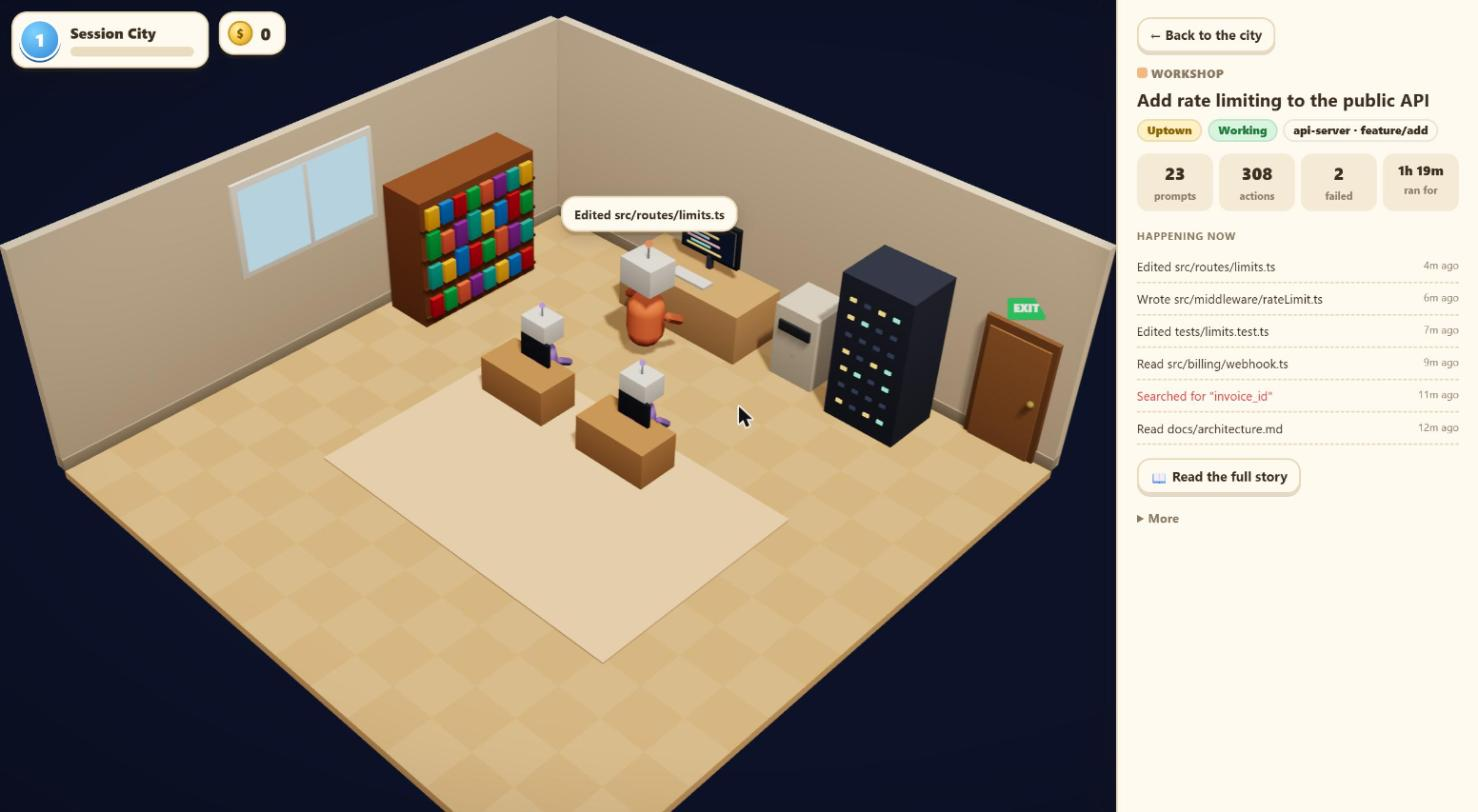
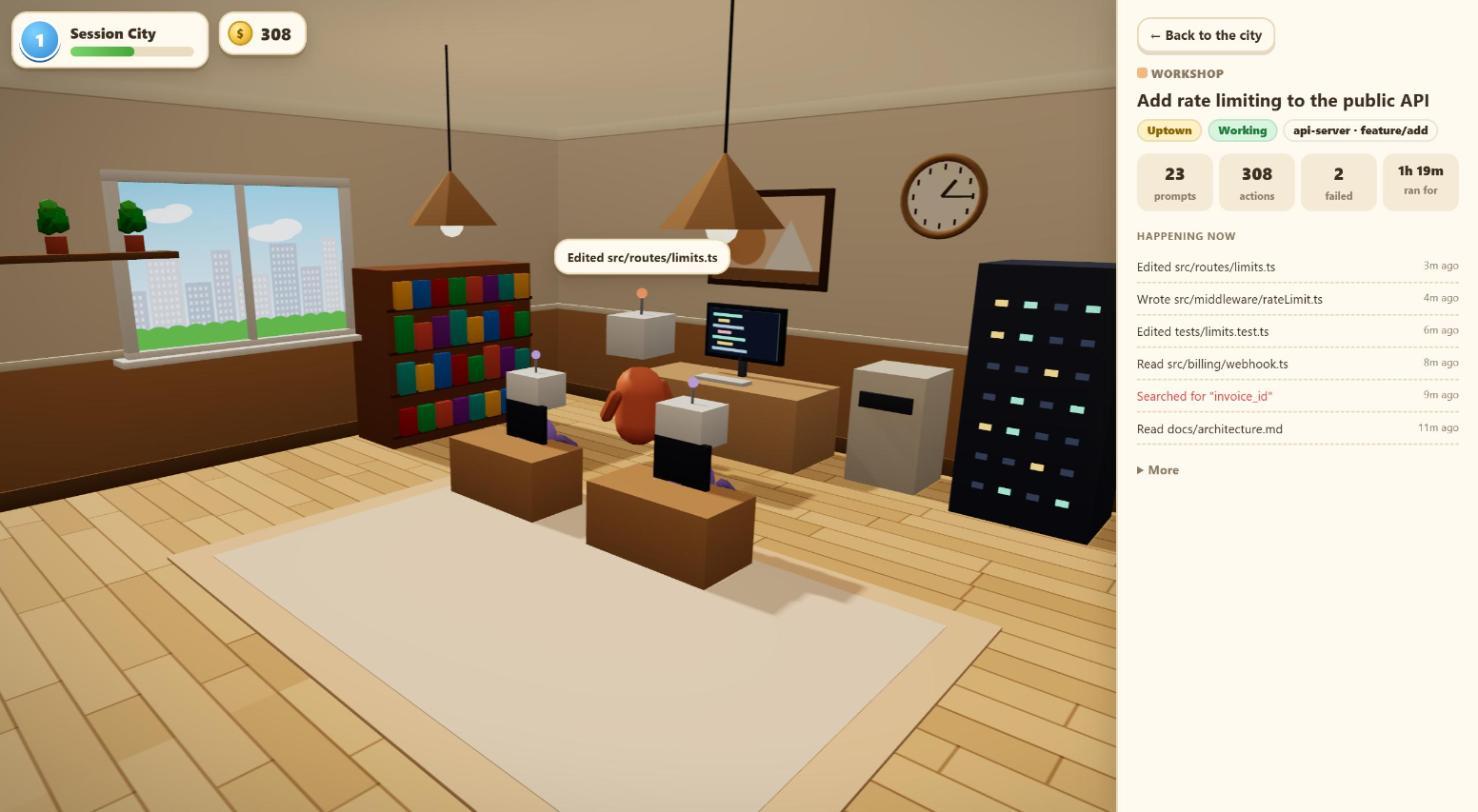
Immersive rooms: stand inside instead of looking at a model
- The camera stands in a front corner at eye height; four walls and a
  ceiling surround it, so there is no black background anywhere. Dragging
  turns your head, with a slow breathing sway.
- Furnished room: wooden floorboards, two-tone walls with a dado rail and
  cornice, pendant lamps, a wall clock showing the real time, framed art in
  the building's colour, a plant shelf and potted plants, a proper door.
- The window shows the city: sky, skyline and treetops by day; stars, a moon
  and lit windows at night. Daylight comes in by day; the lamps take over at
  night.
- Lighter tilt-shift indoors; Room.dispose() frees both window textures.
- README: new room screenshot.

diff --git a/public/room3d.js b/public/room3d.js
@@ -1,11 +1,11 @@
 // Inside a building: a 3D room whose furniture is the kinds of work the session did,
 // with a robot agent walking to whatever it is doing right now.
 import * as THREE from './three.js';
-import { GEO, mat, glowMat, part, makeRobot, makeLabel, KINDS } from './models.js';
+import { GEO, mat, glowMat, part, makeRobot, makeLabel, KINDS, dispose } from './models.js';
 import { mix, shade, damp, clamp } from './util.js';
 
 const ROOM = 7;
-const WALL = 2.6;
+const WALL = 3.0;
 const MAIN = '#e8825e', SUB = '#a58be0';
 
 // x/z footprint in room units; `spot` is where an agent stands to use it.
@@ -20,29 +20,87 @@ const STATIONS = [
 const DESKS = [[2.0, 2.9], [3.4, 2.9], [2.0, 4.2], [3.4, 4.2]];
 const stationFor = (id) => STATIONS.find((s) => s.id === id);
 
+function canvasTexture(w, h, draw) {
+  const c = document.createElement('canvas');
+  c.width = w; c.height = h;
+  draw(c.getContext('2d'));
+  const tex = new THREE.CanvasTexture(c);
+  tex.colorSpace = THREE.SRGBColorSpace;
+  tex.wrapS = tex.wrapT = THREE.RepeatWrapping;
+  tex.anisotropy = 4;
+  return tex;
+}
+
+// What you see out of the window: sky, a skyline and treetops; lit up at night.
+function windowView(night) {
+  return canvasTexture(512, 360, (g) => {
+    const sky = g.createLinearGradient(0, 0, 0, 360);
+    sky.addColorStop(0, night ? '#0b1430' : '#7fc3f0');
+    sky.addColorStop(1, night ? '#2a3768' : '#dff1fb');
+    g.fillStyle = sky;
+    g.fillRect(0, 0, 512, 360);
+    if (night) {
+      g.fillStyle = '#ffffff';
+      for (let i = 0; i < 40; i++) g.fillRect((i * 97) % 512, (i * 53) % 170, 2, 2);
+      g.fillStyle = '#f4f1e0'; g.beginPath(); g.arc(410, 70, 22, 0, Math.PI * 2); g.fill();
+    } else {
+      g.fillStyle = 'rgba(255,255,255,.9)';
+      for (const [x, y, s] of [[90, 70, 1], [330, 110, 1.3]]) {
+        g.beginPath(); g.ellipse(x, y, 46 * s, 16 * s, 0, 0, Math.PI * 2); g.ellipse(x + 30 * s, y - 10 * s, 30 * s, 16 * s, 0, 0, Math.PI * 2); g.fill();
+      }
+    }
+    let x = 0, i = 0;
+    while (x < 512) {
+      const w = 40 + ((i * 37) % 50), h = 90 + ((i * 71) % 130);
+      g.fillStyle = night ? '#1a2244' : ['#a9b6c9', '#c3cbd8', '#9fb0c4'][i % 3];
+      g.fillRect(x, 360 - h - 40, w - 6, h);
+      for (let wy = 360 - h - 30; wy < 320; wy += 16) for (let wx = x + 6; wx < x + w - 14; wx += 12) {
+        if (night && ((wx * 7 + wy * 3 + i) % 5)) continue;
+        g.fillStyle = night ? '#ffd27a' : 'rgba(255,255,255,.55)';
+        g.fillRect(wx, wy, 6, 8);
+      }
+      x += w; i++;
+    }
+    g.fillStyle = night ? '#16301f' : '#5aa54f';
+    for (let t = 0; t < 14; t++) { g.beginPath(); g.arc(t * 40 + 10, 345, 34, 0, Math.PI * 2); g.fill(); }
+  });
+}
+
+function plant(scene, x, y, z, s) {
+  const shadow = y === 0; // plants up on the shelf would smudge the floor with soft shadows
+  const pot = part(GEO.cyl, mat('#c46a4a'), [0.38 * s, 0.34 * s, 0.38 * s], [x, y, z], shadow);
+  scene.add(pot);
+  const leaves = [[0, 0.7, 0, 0.55], [-0.12, 0.55, 0.08, 0.4], [0.12, 0.6, -0.06, 0.42], [0.04, 0.88, 0.05, 0.36]];
+  for (const [dx, dy, dz, r] of leaves) {
+    scene.add(part(GEO.blob, mat(dy > 0.8 ? '#6fcb5c' : '#4ea545'), [r * s, r * s * 1.1, r * s], [x + dx * s, y + dy * s, z + dz * s], shadow));
+  }
+}
+
 export class Room {
   constructor(session) {
     this.id = session.id;
     const scene = this.scene = new THREE.Scene();
-    scene.background = new THREE.Color('#1f2438');
-    this.camera = new THREE.PerspectiveCamera(30, 1, 0.1, 200);
+    scene.background = new THREE.Color('#e9dcc6'); // never seen: the room encloses the camera
+    // you stand in a front corner of the room, at eye height, looking across it
+    this.camera = new THREE.PerspectiveCamera(52, 1, 0.05, 60);
     this.yaw = Math.PI / 4;
     this.yawGoal = this.yaw;
-    scene.add(new THREE.HemisphereLight('#fff6e8', '#6a5040', 1.3));
-    const key = new THREE.DirectionalLight('#fff0d8', 2.2);
-    key.position.set(9, 12, 7);
-    key.castShadow = true;
-    key.shadow.mapSize.set(1024, 1024);
-    const sc = key.shadow.camera;
-    sc.left = sc.bottom = -7; sc.right = sc.top = 7;
-    key.target.position.set(3.5, 0, 3.5);
-    scene.add(key, key.target);
-    this.lamp = new THREE.PointLight('#ffcf8a', 0, 9);
-    this.lamp.position.set(3.5, 2.3, 3.5);
-    scene.add(this.lamp);
+
+    // daylight through the window, warm bounce off the floor, and the ceiling lamps
+    this.fill = new THREE.HemisphereLight('#fff6e8', '#8a6a4c', 1.2);
+    this.sunlight = new THREE.DirectionalLight('#fff0d8', 1.6);
+    this.sunlight.position.set(-6, 9, 4);
+    this.sunlight.castShadow = true;
+    this.sunlight.shadow.mapSize.set(1024, 1024);
+    this.sunlight.shadow.normalBias = 0.02;
+    const sc = this.sunlight.shadow.camera;
+    sc.left = sc.bottom = -6; sc.right = sc.top = 6;
+    this.sunlight.target.position.set(3.5, 0, 3.5);
+    scene.add(this.fill, this.sunlight, this.sunlight.target);
 
     this.hits = [];
     this.anim = {};
+    this.lamps = [];
     this.buildRoom(session);
     this.buildStations(session);
 
@@ -60,50 +118,130 @@ export class Room {
       this.subs.push(r);
     }
     this.state = { lastGroup: null, wanderAt: 0, goalId: 'build', mode: 'idle' };
-    this.zzz = [];
   }
 
   buildRoom(s) {
     const kind = KINDS[s.kind].color;
-    const wall = mix('#f4efe6', kind, 0.2);
     const scene = this.scene;
-    // floor boards
-    const c = document.createElement('canvas');
-    c.width = c.height = 256;
-    const g = c.getContext('2d');
-    for (let y = 0; y < 8; y++) for (let x = 0; x < 8; x++) {
-      g.fillStyle = (x + y) % 2 ? '#d7b48c' : '#cfab82';
-      g.fillRect(x * 32, y * 32, 32, 32);
+    const upper = mix('#f6f0e4', kind, 0.16), lower = mix(shade(kind, -0.15), '#8a6a4c', 0.35);
+    const add = (m) => { m.castShadow = false; scene.add(m); return m; };
+
+    // floorboards
+    const floorTex = canvasTexture(512, 512, (g) => {
+      for (let row = 0; row < 16; row++) {
+        let x = -((row * 97) % 180);
+        while (x < 512) {
+          const w = 140 + ((row * 31 + Math.abs(x)) % 90);
+          const tone = 168 + ((row * 13 + Math.abs(x) * 7) % 26);
+          g.fillStyle = `rgb(${tone + 40},${tone - 2},${tone - 52})`;
+          g.fillRect(x, row * 32, w, 32);
+          g.fillStyle = 'rgba(60,35,15,.35)';
+          g.fillRect(x, row * 32, 2, 32);
+          x += w;
+        }
+        g.fillStyle = 'rgba(60,35,15,.4)';
+        g.fillRect(0, row * 32, 512, 2);
+      }
+    });
+    floorTex.repeat.set(2, 2);
+    add(part(GEO.box, new THREE.MeshStandardMaterial({ map: floorTex, roughness: 0.7 }), [ROOM, 0.1, ROOM], [ROOM / 2, -0.1, ROOM / 2]));
+    add(part(GEO.box, mat(mix(kind, '#ffffff', 0.3), { flatShading: false }), [3.9, 0.02, 2.7], [3.65, 0, 3.75]));
+    add(part(GEO.box, mat(mix(kind, '#ffffff', 0.6), { flatShading: false }), [3.5, 0.025, 2.3], [3.65, 0, 3.75]));
+
+    // four walls (two-tone, with a dado rail and skirting) and a ceiling, so every
+    // direction you look is room
+    const walls = [
+      { x: -0.07, z: ROOM / 2, alongZ: true },
+      { x: ROOM + 0.07, z: ROOM / 2, alongZ: true },
+      { x: ROOM / 2, z: -0.07, alongZ: false },
+      { x: ROOM / 2, z: ROOM + 0.07, alongZ: false },
+    ];
+    const span = (t, len = ROOM + 0.28) => (w) => (w.alongZ ? [t, 0, len] : [len, 0, t]);
+    for (const w of walls) {
+      const size = (t, h, len) => { const [a, , b] = span(t, len)(w); return [a, h, b]; };
+      add(part(GEO.box, mat(upper, { flatShading: false }), size(0.14, WALL), [w.x, 0, w.z]));
+      add(part(GEO.box, mat(lower, { flatShading: false }), size(0.17, 1.0, ROOM), [w.x, 0, w.z]));
+      add(part(GEO.box, mat('#f4ead8'), size(0.21, 0.06, ROOM), [w.x, 1.0, w.z]));
+      add(part(GEO.box, mat(shade(lower, -0.3)), size(0.21, 0.14, ROOM), [w.x, 0, w.z]));
+      add(part(GEO.box, mat('#efe6d4', { emissive: '#8a7d68', emissiveIntensity: 0.45 }), size(0.3, 0.12, ROOM), [w.x, WALL - 0.12, w.z]));
     }
-    const tex = new THREE.CanvasTexture(c);
-    tex.colorSpace = THREE.SRGBColorSpace;
-    tex.wrapS = tex.wrapT = THREE.RepeatWrapping;
-    tex.repeat.set(ROOM / 8 * 2, ROOM / 8 * 2);
-    tex.magFilter = THREE.NearestFilter;
-    const floor = part(GEO.box, new THREE.MeshStandardMaterial({ map: tex, roughness: 0.8 }), [ROOM, 0.1, ROOM], [ROOM / 2, -0.1, ROOM / 2], false);
-    scene.add(floor);
-    scene.add(part(GEO.box, mat(mix(kind, '#ffffff', 0.35), { flatShading: false }), [3.9, 0.02, 2.6], [3.65, 0, 3.75], false));
+    // the ceiling only sees bounce light from the floor, so give it a soft glow of its own
+    add(part(GEO.box, mat('#f7f2e8', { flatShading: false, emissive: '#b9a88f', emissiveIntensity: 0.55 }), [ROOM + 0.3, 0.12, ROOM + 0.3], [ROOM / 2, WALL, ROOM / 2]));
 
-    // two walls with skirting, a window and the exit door
-    scene.add(part(GEO.box, mat(shade(wall, -0.06)), [0.12, WALL, ROOM], [-0.06, 0, ROOM / 2]));
-    scene.add(part(GEO.box, mat(wall), [ROOM, WALL, 0.12], [ROOM / 2, 0, -0.06]));
-    scene.add(part(GEO.box, mat(shade(wall, -0.3)), [0.14, 0.14, ROOM], [-0.05, 0, ROOM / 2]));
-    scene.add(part(GEO.box, mat(shade(wall, -0.3)), [ROOM, 0.14, 0.14], [ROOM / 2, 0, -0.05]));
-    scene.add(part(GEO.box, mat('#ffffff'), [0.06, 1.1, 1.8], [0.01, 1.2, 3.75], false));
-    this.windowGlass = part(GEO.box, new THREE.MeshBasicMaterial({ color: '#9fd3f0', toneMapped: false }), [0.07, 0.95, 1.65], [0.02, 1.27, 3.75], false);
-    scene.add(this.windowGlass);
-    scene.add(part(GEO.box, mat('#ffffff'), [0.08, 0.95, 0.05], [0.02, 1.27, 3.75], false));
+    // a window onto the city (sky and skyline change with day and night)
+    this.views = { day: windowView(false), night: windowView(true) };
+    const z0 = 2.85, len = 1.8, y0 = 1.05, h = 1.25;
+    this.pane = new THREE.Mesh(new THREE.PlaneGeometry(len, h), new THREE.MeshBasicMaterial({ map: this.views.day, toneMapped: false }));
+    this.pane.rotation.y = Math.PI / 2;
+    this.pane.position.set(0.09, y0 + h / 2, z0 + len / 2);
+    add(this.pane);
+    const bar = (sx, sy, sz, px, py, pz) => add(part(GEO.box, mat('#ffffff'), [sx, sy, sz], [px, py, pz]));
+    bar(0.1, 0.08, len + 0.16, 0.11, y0 - 0.08, z0 + len / 2);
+    bar(0.1, 0.08, len + 0.16, 0.11, y0 + h, z0 + len / 2);
+    bar(0.1, h, 0.08, 0.11, y0, z0 - 0.04);
+    bar(0.1, h, 0.08, 0.11, y0, z0 + len + 0.04);
+    bar(0.1, h, 0.05, 0.11, y0, z0 + len / 2);
+    bar(0.24, 0.05, len + 0.3, 0.14, y0 - 0.1, z0 + len / 2);
 
+    // the exit door
     const door = new THREE.Group();
-    door.add(part(GEO.box, mat('#8a6446'), [0.8, 1.45, 0.08], [6.4, 0, 0.02]));
-    door.add(part(GEO.box, mat('#a77a55'), [0.68, 1.35, 0.1], [6.4, 0, 0.03]));
-    door.add(part(GEO.sphere, mat('#f2d48a', { metalness: 0.6, roughness: 0.3 }), [0.08, 0.08, 0.08], [6.66, 0.7, 0.1]));
-    const exit = makeLabel('EXIT', 0.22, { bg: '#2fae5a', fg: '#ffffff', font: 800, size: 40, radius: 8 });
-    exit.position.set(6.4, 1.72, 0.1);
+    door.add(part(GEO.box, mat('#6f4f36'), [1.0, 2.05, 0.1], [6.3, 0, 0.03]));
+    door.add(part(GEO.box, mat('#a77a55'), [0.84, 1.95, 0.12], [6.3, 0, 0.04]));
+    for (const y of [0.35, 1.15]) door.add(part(GEO.box, mat('#956b49'), [0.6, 0.6, 0.14], [6.3, y, 0.04]));
+    door.add(part(GEO.sphere, mat('#f2d48a', { metalness: 0.6, roughness: 0.3 }), [0.09, 0.09, 0.09], [6.62, 0.95, 0.13]));
+    const exit = makeLabel('EXIT', 0.26, { bg: '#2fae5a', fg: '#ffffff', font: 800, size: 40, radius: 8 });
+    exit.position.set(6.3, 2.3, 0.12);
     door.add(exit);
     door.traverse((o) => { o.userData.door = true; });
     scene.add(door);
     this.hits.push(door);
+
+    // a wall clock showing the real time, above the coffee machine
+    const clock = new THREE.Group();
+    clock.position.set(4.25, 2.2, 0.09);
+    clock.add(new THREE.Mesh(new THREE.CircleGeometry(0.28, 32), new THREE.MeshStandardMaterial({ map: canvasTexture(128, 128, (g) => {
+      g.fillStyle = '#fffaf0'; g.beginPath(); g.arc(64, 64, 62, 0, Math.PI * 2); g.fill();
+      g.fillStyle = '#3b2f22';
+      for (let i = 0; i < 12; i++) { const a = i * Math.PI / 6; g.fillRect(64 + Math.sin(a) * 50 - 2, 64 - Math.cos(a) * 50 - 5, 4, 10); }
+    }) })));
+    clock.add(new THREE.Mesh(new THREE.TorusGeometry(0.29, 0.03, 8, 32), new THREE.MeshStandardMaterial({ color: shade(kind, -0.35) })));
+    const hand = (l, w) => {
+      const pivot = new THREE.Group();
+      pivot.add(new THREE.Mesh(new THREE.BoxGeometry(w, l, 0.01).translate(0, l / 2, 0.015), new THREE.MeshBasicMaterial({ color: '#2b2118' })));
+      clock.add(pivot);
+      return pivot;
+    };
+    this.anim.clock = { hour: hand(0.15, 0.025), minute: hand(0.22, 0.016) };
+    scene.add(clock);
+
+    // framed art above the workbench, in the building's colour
+    const art = new THREE.Mesh(new THREE.PlaneGeometry(1.1, 0.75), new THREE.MeshStandardMaterial({ map: canvasTexture(220, 150, (g) => {
+      g.fillStyle = mix(kind, '#ffffff', 0.55); g.fillRect(0, 0, 220, 150);
+      g.fillStyle = shade(kind, -0.1); g.beginPath(); g.arc(70, 80, 42, 0, Math.PI * 2); g.fill();
+      g.fillStyle = '#ffffff'; g.beginPath(); g.moveTo(110, 130); g.lineTo(160, 40); g.lineTo(210, 130); g.fill();
+      g.fillStyle = shade(kind, -0.35); g.fillRect(0, 128, 220, 22);
+    }) }));
+    art.position.set(2.75, 1.85, 0.1);
+    add(art);
+    add(part(GEO.box, mat('#5a4030'), [1.22, 0.87, 0.04], [2.75, 1.85 - 0.435, 0.06]));
+
+    // a shelf of plants over the switchboard, and potted plants in the corners
+    add(part(GEO.box, mat('#8a6446'), [0.3, 0.05, 1.5], [0.2, 1.75, 5.1]));
+    for (const z of [4.6, 5.1, 5.6]) plant(scene, 0.2, 1.8, z, 0.35);
+    plant(scene, 6.5, 0, 2.6, 1);
+    plant(scene, 0.55, 0, 6.45, 1.2);
+    plant(scene, 6.45, 0, 6.45, 0.9);
+
+    // pendant lamps
+    for (const [x, z] of [[2.7, 3.6], [4.6, 3.6]]) {
+      add(part(GEO.cyl, mat('#3b3f4a'), [0.015, 0.7, 0.015], [x, WALL - 0.7, z]));
+      add(part(GEO.cone8, mat(shade(kind, -0.25), { side: THREE.DoubleSide }), [0.55, 0.32, 0.55], [x, WALL - 1.0, z]));
+      const bulb = add(part(GEO.sphere, new THREE.MeshBasicMaterial({ color: '#fff1c4', toneMapped: false }), [0.14, 0.14, 0.14], [x, WALL - 1.0, z]));
+      const light = new THREE.PointLight('#ffcf8a', 0.5, 7, 1.6);
+      light.position.set(x, WALL - 1.15, z);
+      scene.add(light);
+      this.lamps.push({ light, bulb });
+    }
   }
 
   buildStations(s) {
@@ -183,13 +321,21 @@ export class Room {
     }
   }
 
-  resize(w, h) {
-    this.camera.aspect = w / h;
-    this.camera.updateProjectionMatrix();
-    this.dist = clamp(22 / Math.min(1.4, w / h), 15, 30);
+  dispose() {
+    this.views.day.dispose();
+    this.views.night.dispose();
+    dispose(this.scene);
   }
 
-  rotate(dx) { this.yawGoal = clamp(this.yawGoal - dx * 0.006, Math.PI / 4 - 0.6, Math.PI / 4 + 0.6); }
+  resize(w, h) {
+    this.camera.aspect = w / h;
+    // narrow screens need a wider lens to keep the room in view
+    this.camera.fov = clamp(70 - (w / h) * 11, 48, 62);
+    this.camera.updateProjectionMatrix();
+  }
+
+  // Dragging turns your head; you stay standing in the corner.
+  rotate(dx) { this.yawGoal = clamp(this.yawGoal - dx * 0.004, Math.PI / 4 - 0.55, Math.PI / 4 + 0.55); }
 
   pick(raycaster) {
     const hit = raycaster.intersectObjects(this.hits, true)[0];
@@ -198,13 +344,27 @@ export class Room {
   }
 
   update(dt, t, s, night) {
-    // camera
-    this.yaw += (this.yawGoal - this.yaw) * damp(8, dt);
-    const d = this.dist ?? 19;
-    this.camera.position.set(3.5 + Math.sin(this.yaw) * d * 0.72, d * 0.62, 3.5 + Math.cos(this.yaw) * d * 0.72);
-    this.camera.lookAt(3.3, 0.6, 3.3);
-    this.windowGlass.material.color.set(night > 0.5 ? '#1d2a55' : mix('#9fd3f0', '#1d2a55', night));
-    this.lamp.intensity = night * 6;
+    // camera: standing in the front corner at eye height, with a slow breathing sway
+    this.yaw += (this.yawGoal - this.yaw) * damp(6, dt);
+    const sway = Math.sin(t / 2600) * 0.012;
+    this.camera.position.set(6.55, 2.05 + sway, 6.55);
+    const look = 6.2;
+    this.camera.lookAt(6.55 - Math.sin(this.yaw) * look, 0.55, 6.55 - Math.cos(this.yaw) * look);
+
+    // light: daylight through the window by day, the pendant lamps at night
+    this.sunlight.intensity = 1.6 * (1 - night) + 0.15;
+    this.fill.intensity = 1.2 - night * 0.55;
+    this.fill.color.set(mix('#fff6e8', '#c9b7a0', night));
+    for (const l of this.lamps) {
+      l.light.intensity = 0.4 + night * 5;
+      l.bulb.material.color.set(night > 0.3 ? '#ffe2a0' : '#fff6dc');
+    }
+    const view = night > 0.5 ? this.views.night : this.views.day;
+    if (this.pane.material.map !== view) { this.pane.material.map = view; this.pane.material.needsUpdate = true; }
+    const now = new Date();
+    const mins = now.getHours() * 60 + now.getMinutes() + now.getSeconds() / 60;
+    this.anim.clock.minute.rotation.z = -(mins % 60) / 60 * Math.PI * 2;
+    this.anim.clock.hour.rotation.z = -(mins % 720) / 720 * Math.PI * 2;
 
     // where the agent wants to be
     const st = this.state;

diff --git a/public/app.js b/public/app.js
@@ -2,7 +2,7 @@ import * as THREE from './three.js';
 import { City } from './city3d.js';
 import { Room } from './room3d.js';
 import { buildLayout, colonyOf, COLONIES } from './layout.js';
-import { KINDS, STATUS, CAR_MODELS, carById, makeCar, dispose } from './models.js';
+import { KINDS, STATUS, CAR_MODELS, carById, makeCar } from './models.js';
 import { createGame, pending, collect, levelOf, quests, progress, claim, visited, actionsOf } from './game.js';
 import { sfx } from './sfx.js';
 import { renderPostcard, cityStats, openShare } from './share.js';
@@ -325,7 +325,7 @@ function leave() {
   transition(() => {
     state.scene = 'city';
     city.active = true;
-    dispose(state.room.scene);
+    state.room.dispose();
     state.room = null;
     hud.hidden = true;
     bubble.hidden = true;
@@ -456,7 +456,7 @@ function frame(t) {
     const s = state.roomSession;
     state.room.update(dt, t, s, n);
     const u = city.post.uniforms;
-    u.uBlur.value = 0.45; u.uBand.value = 0.3; u.uFocus.value = 0.5;
+    u.uBlur.value = 0.18; u.uBand.value = 0.36; u.uFocus.value = 0.45; // you are in the room, not looking at a model
     city.post.render(state.room.scene, state.room.camera);
     const p = state.room.headPosition().project(state.room.camera);
     const r = canvas.getBoundingClientRect();

diff --git a/README.md b/README.md
@@ -64,7 +64,7 @@ The card shows what the session was about, how busy it was, and the coins waitin
 
 ### Step inside
 
-Each room is furnished with the work the session did. The robot agent walks to whatever it is doing right now, with its latest action in a speech bubble. Subagents work at the desks, and the side panel shows the live activity feed.
+You stand inside the session's room: floorboards, lamps, a clock with your real time, and a window onto the city that turns to night when you do. The room is furnished with the work the session did. The robot agent walks to whatever it is doing right now, with its latest action in a speech bubble. Subagents work at the desks, and the side panel shows the live activity feed. Drag to look around.
 
 ![Inside a building: a robot at the workbench, subagent robots at desks, and the activity feed](docs/images/inside.jpg)
 
